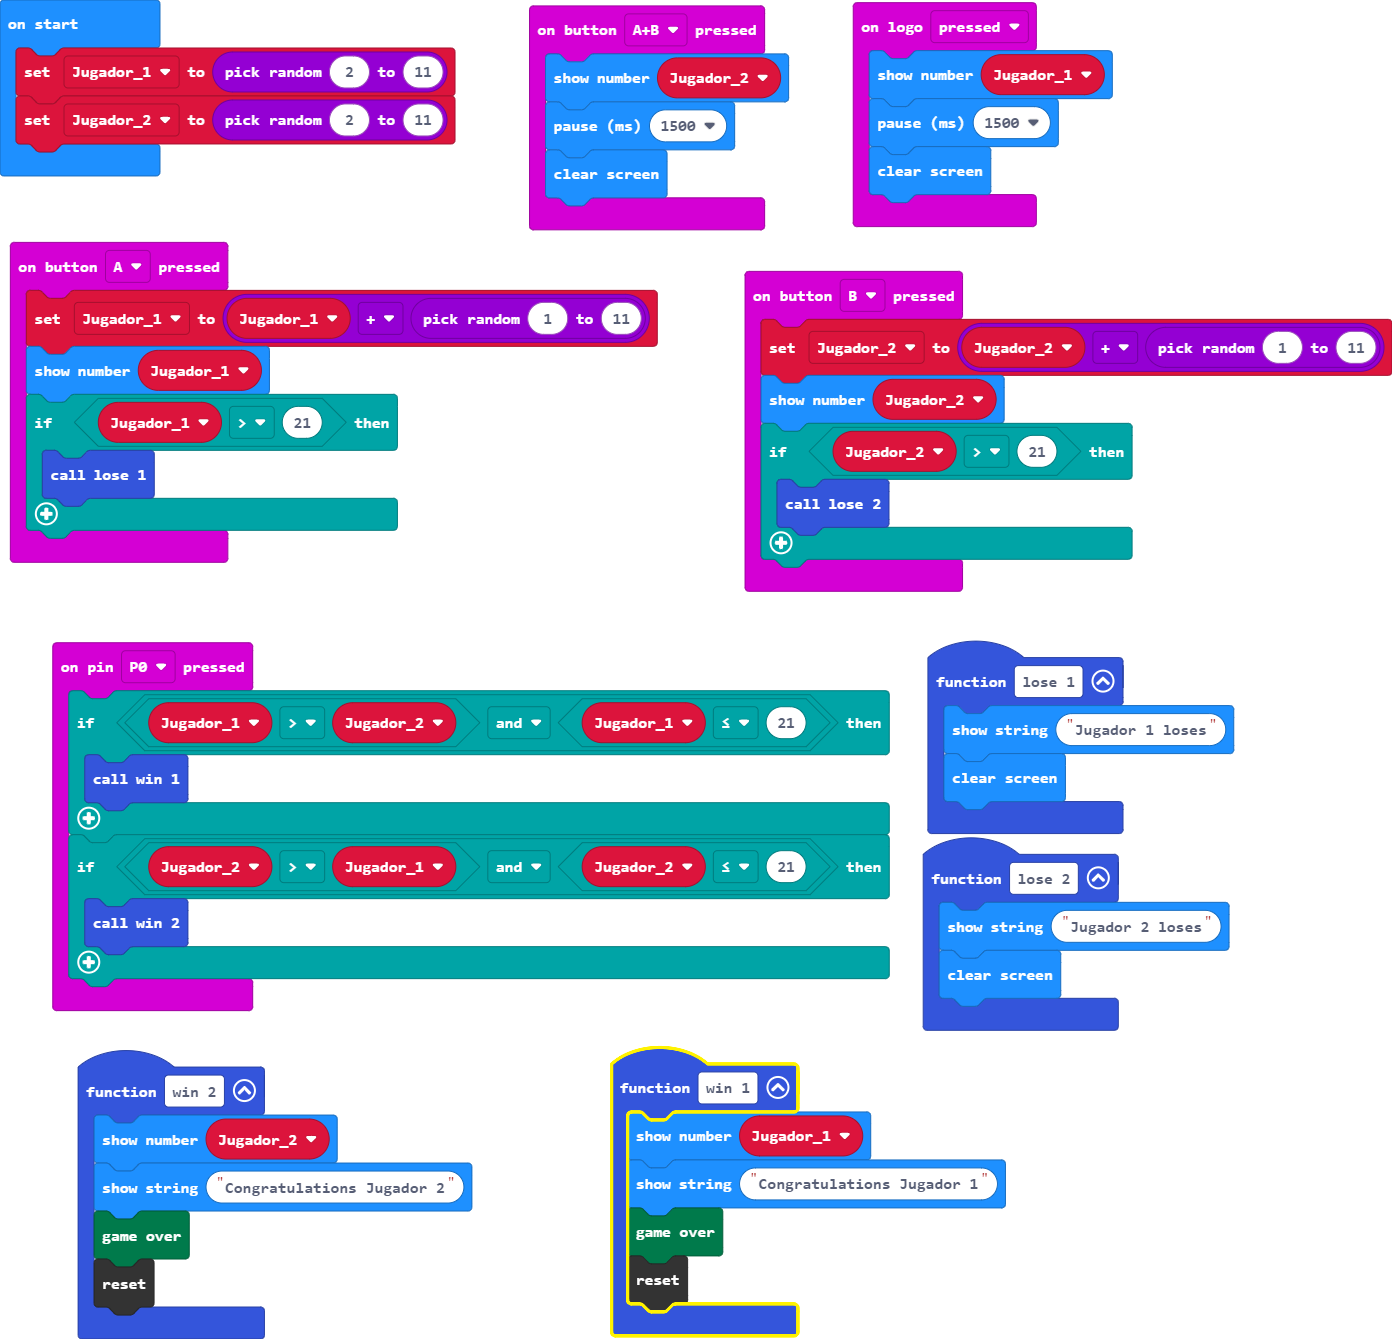
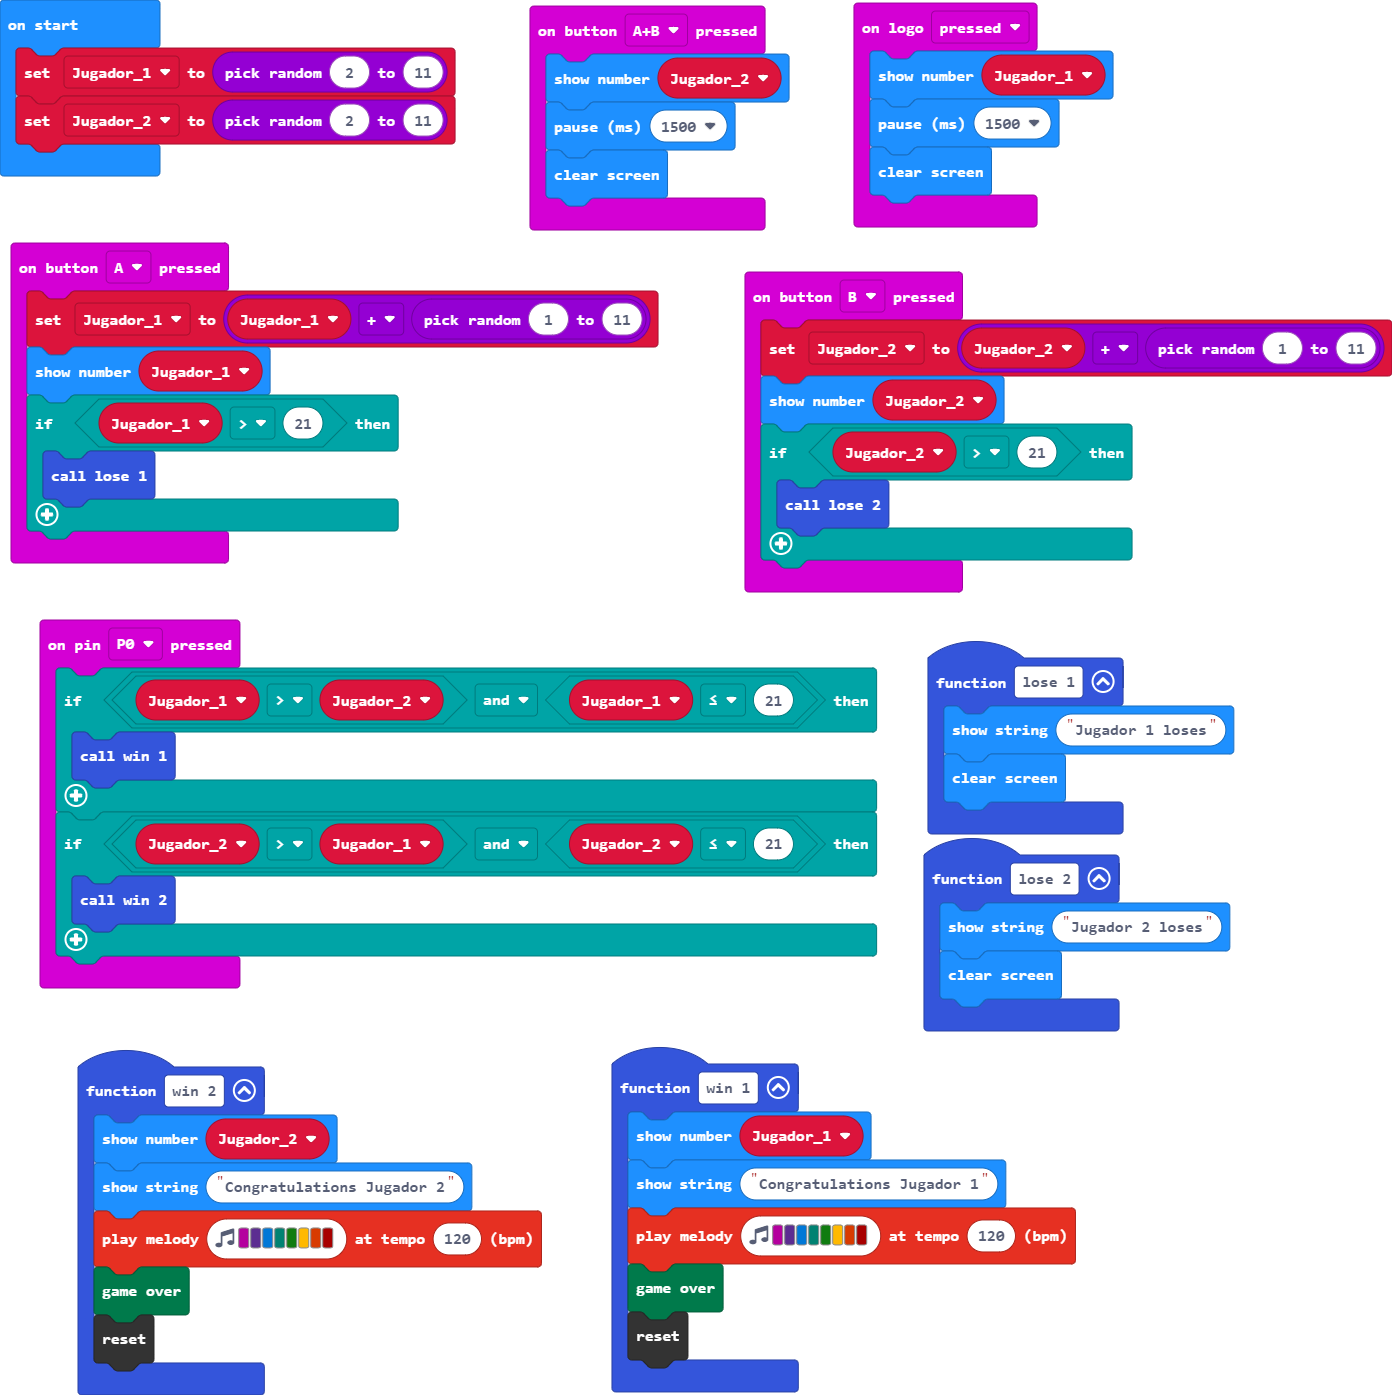
Update main.blocks, main.ts

diff --git a/main.ts b/main.ts
@@ -21,6 +21,7 @@ input.onButtonPressed(Button.AB, function () {
 function win_1 () {
     basic.showNumber(Jugador_1)
     basic.showString("Congratulations Jugador 1")
+    music.playMelody("C D E F G A B C5 ", 120)
     game.gameOver()
     control.reset()
 }
@@ -34,6 +35,7 @@ input.onButtonPressed(Button.B, function () {
 function win_2 () {
     basic.showNumber(Jugador_2)
     basic.showString("Congratulations Jugador 2")
+    music.playMelody("C D E F G A B C5 ", 120)
     game.gameOver()
     control.reset()
 }
